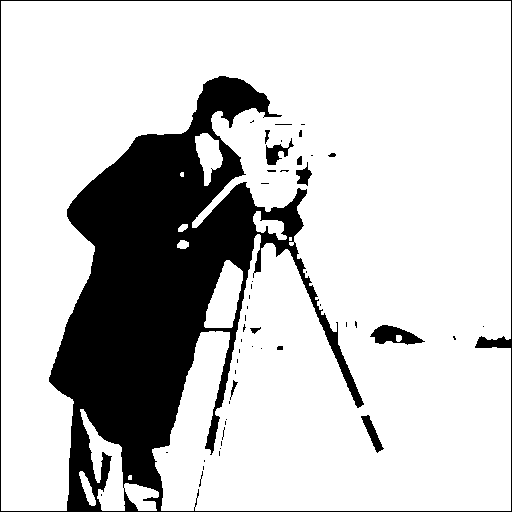
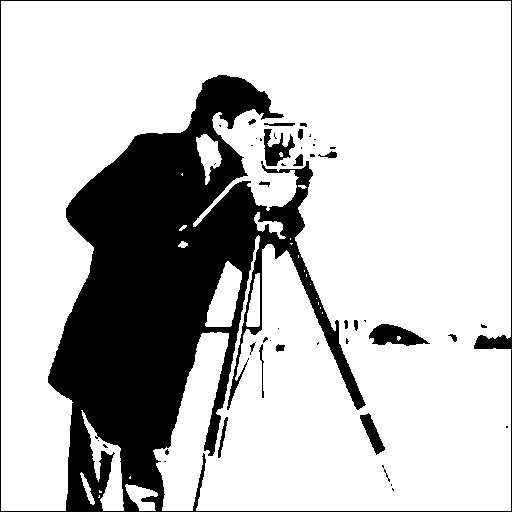
Update

diff --git a/lab/CitraDigital/processing_list.py b/lab/CitraDigital/processing_list.py
@@ -1,4 +1,4 @@
-from PIL import Image, ImageOps
+from PIL import Image, ImageOps, ImageChops
 import math
 import random
 
@@ -2013,31 +2013,31 @@ def ImgClosingBinary(img_input,coldepth):
    return img_output
 
 
-# #White Top Hat Binary Image
-# def ImgWhiteTopHatBinary(img_input,coldepth):
-#    img_output = ImgOpeningBinary(img_input,coldepth)
-#    img_output = ImageChops.subtract(img_input,img_output)
+#White Top Hat Binary Image
+def ImgWhiteTopHatBinary(img_input,coldepth):
+   img_output = ImgOpeningBinary(img_input,coldepth)
+   img_output = ImageChops.subtract(img_input,img_output)
 
-#    if coldepth == 1:
-#          img_output = img_output.convert("1")
-#    elif coldepth == 8:
-#          img_output = img_output.convert("L")
-#    else:
-#          img_output = img_output.convert("RGB")
+   if coldepth == 1:
+         img_output = img_output.convert("1")
+   elif coldepth == 8:
+         img_output = img_output.convert("L")
+   else:
+         img_output = img_output.convert("RGB")
 
-#    return img_output
+   return img_output
 
 
-# #Black Top Hat Binary Image
-# def ImgBlackTopHatBinary(img_input,coldepth):
-#    img_output = ImgClosingBinary(img_input,coldepth)
-#    img_output = ImageChops.subtract(img_output,img_input)
+#Black Top Hat Binary Image
+def ImgBlackTopHatBinary(img_input,coldepth):
+   img_output = ImgClosingBinary(img_input,coldepth)
+   img_output = ImageChops.subtract(img_output,img_input)
 
-#    if coldepth == 1:
-#          img_output = img_output.convert("1")
-#    elif coldepth == 8:
-#          img_output = img_output.convert("L")
-#    else:
-#          img_output = img_output.convert("RGB")
+   if coldepth == 1:
+         img_output = img_output.convert("1")
+   elif coldepth == 8:
+         img_output = img_output.convert("L")
+   else:
+         img_output = img_output.convert("RGB")
 
-#    return img_output
+   return img_output
